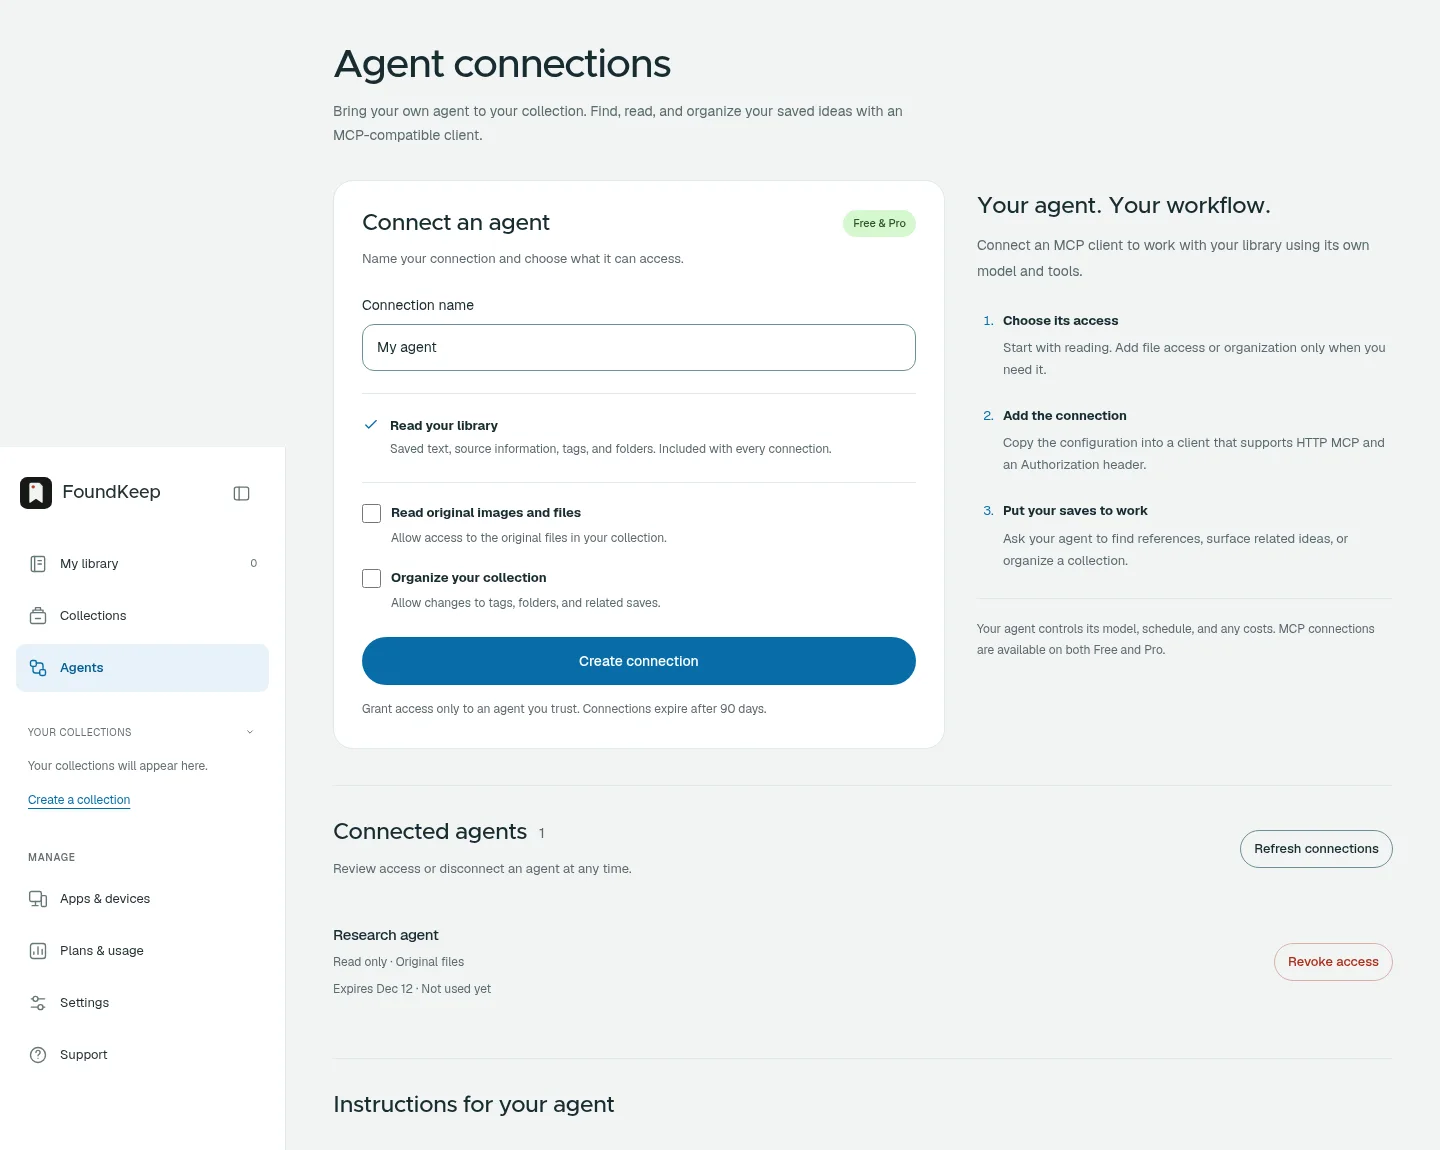
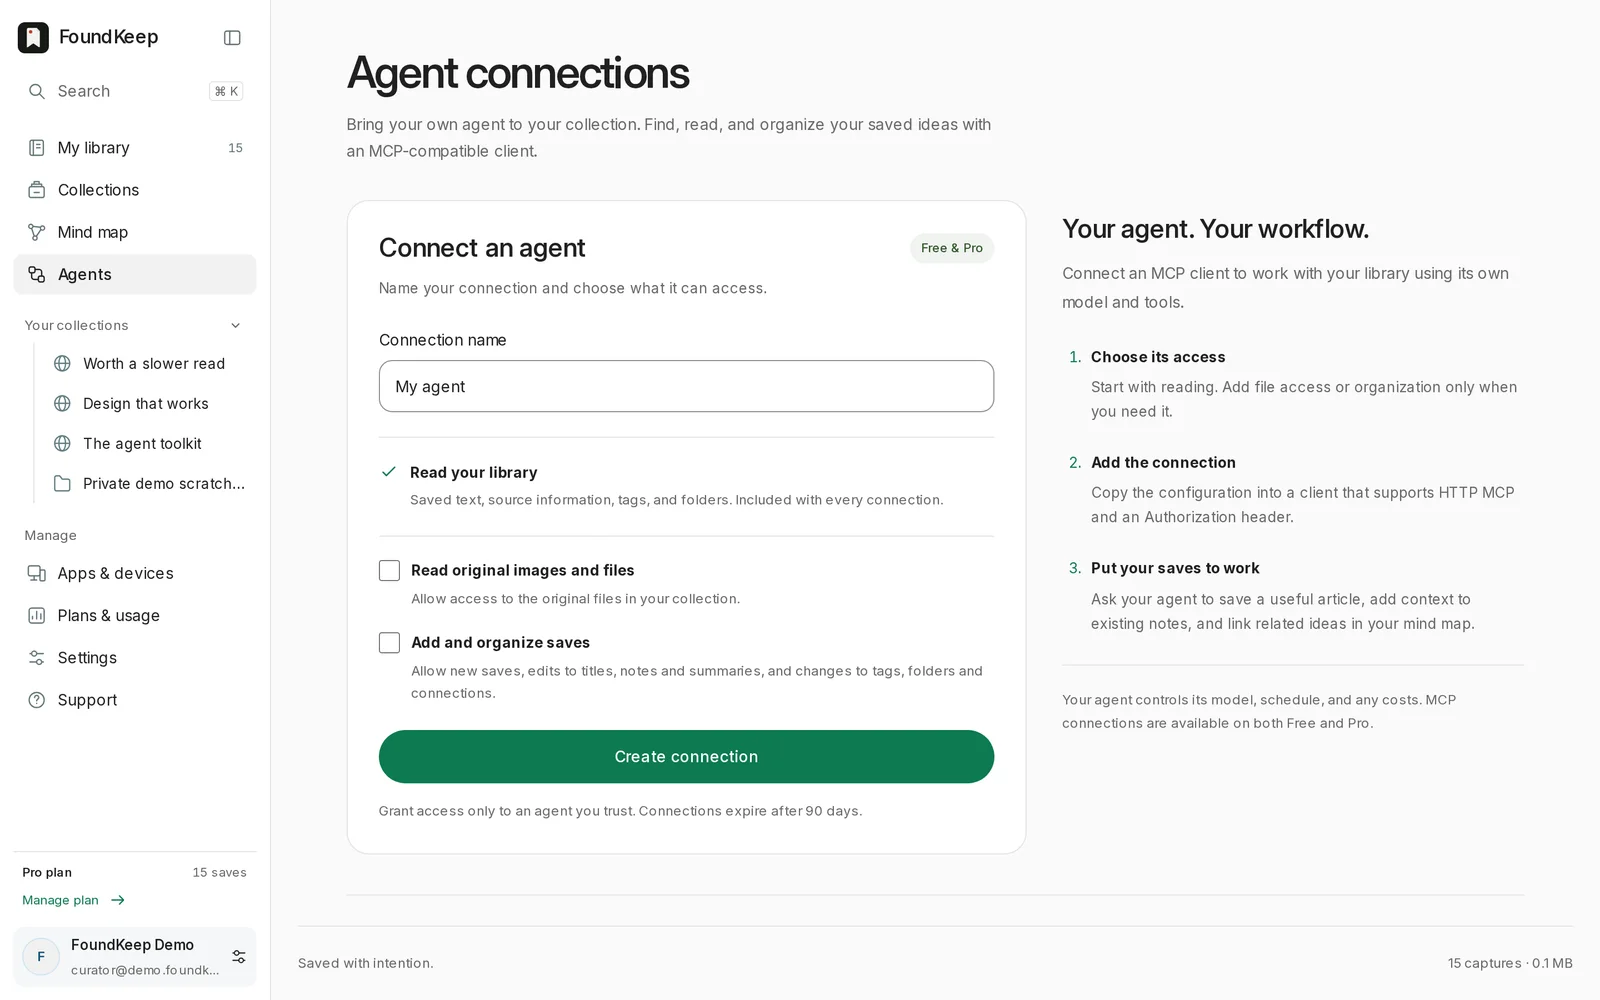
content(foundkeep): screenshots from the deployed app (dev demo account), drop unverified mobile image

diff --git a/content/foundkeep/index.md b/content/foundkeep/index.md
@@ -4,7 +4,7 @@ subtitle: A private library for pages, screenshots, highlights and threads that 
 slug: bookmarks-forget-why-you-saved-them-so-i-built-foundkeep
 tags: [foundkeep, agents, tools]
 cover: ./cover.webp
-cover_alt: The FoundKeep web library: a search box, type filters and a grid of saved images, highlights and notes
+cover_alt: The FoundKeep library: sidebar with collections, mind map and agents, and a masonry of saved bookmarks and notes with tags
 ---
 
 I have a folder called "read later" in every browser I have ever used. None of them helped me read anything later.
@@ -31,8 +31,6 @@ The same goes for the other kinds of things people hoard:
 
 ![The Chrome extension's sidebar: the current page with Save page, Highlight, Region and Full page actions above your library](./extension-sidebar.webp "The extension lives in Chrome's side panel: capture on top, your library underneath.")
 
-![The iPhone app: the gallery of finds with type filters, and a saved item with its summary, folder and tags](./iphone.webp "The iPhone app. Share sheet in, gallery out. The same library as the browser.")
-
 Every capture lands in the browser's local storage first and syncs to your account afterwards. If the network is down when you hit save, the save still happens.
 
 * * *
@@ -47,9 +45,11 @@ The second is hosted AI processing, and it is off until you turn it on. When you
 
 Tags come in two sets: the ones the machine suggested and the ones you typed. Yours win. Folders are separate from tags, and a save sits in exactly one folder. You can also link two saves by hand, and the links form a graph where clusters and hubs start to show up on their own.
 
+![The mind map: saves and tags as nodes, links between them drawn as lines](./mind-map.webp "The mind map. Fifteen saves, fourteen tags, thirty links, and the shape of what you have been reading.")
+
 ![Review your save: destination, title, a personal note, folder and tags before it is stored](./extension-save-review.webp "Every save gets a review step: where it goes, what it is called, and the note you will thank yourself for later.")
 
-![A saved bookmark open in the web reader with its note and a list of connected saves](./reader.webp "A save in the reader. Connected saves are the links you made and the tags you share.")
+![A saved bookmark opened over the library: title, source, your note, and the connected saves](./reader.webp "A save opened in place. Connected saves are the links you made plus the ones you share a tag with.")
 
 Search covers titles, notes, summaries, OCR text and the extracted article. It is keyword search. I have not bolted embeddings onto it and I am not going to claim semantic anything until it earns the word.
 
@@ -59,7 +59,9 @@ Search covers titles, notes, summaries, OCR text and the extracted article. It i
 
 Folders are for you. Collections are the shareable layer: a group of saves with a visibility setting, a list of who can add to it, and, if you want, an approval step for submissions. Public collections can be browsed without an account. Members build them, followers watch them.
 
-![A public collection page: 27 finds with a curator, followers, search and a masonry of notes and images](./collection.webp "A public collection. Anyone can browse it; members add to it.")
+![Your collections: three public ones and a private scratchpad, each with tags and follower counts](./collections.webp "Collections you curate or follow.")
+
+![A public collection page with a pending suggestion waiting for the curator's approval](./collection-public.webp "A public collection, seen by its curator: a contributor's suggestion is waiting for approval.")
 
 * * *
 
